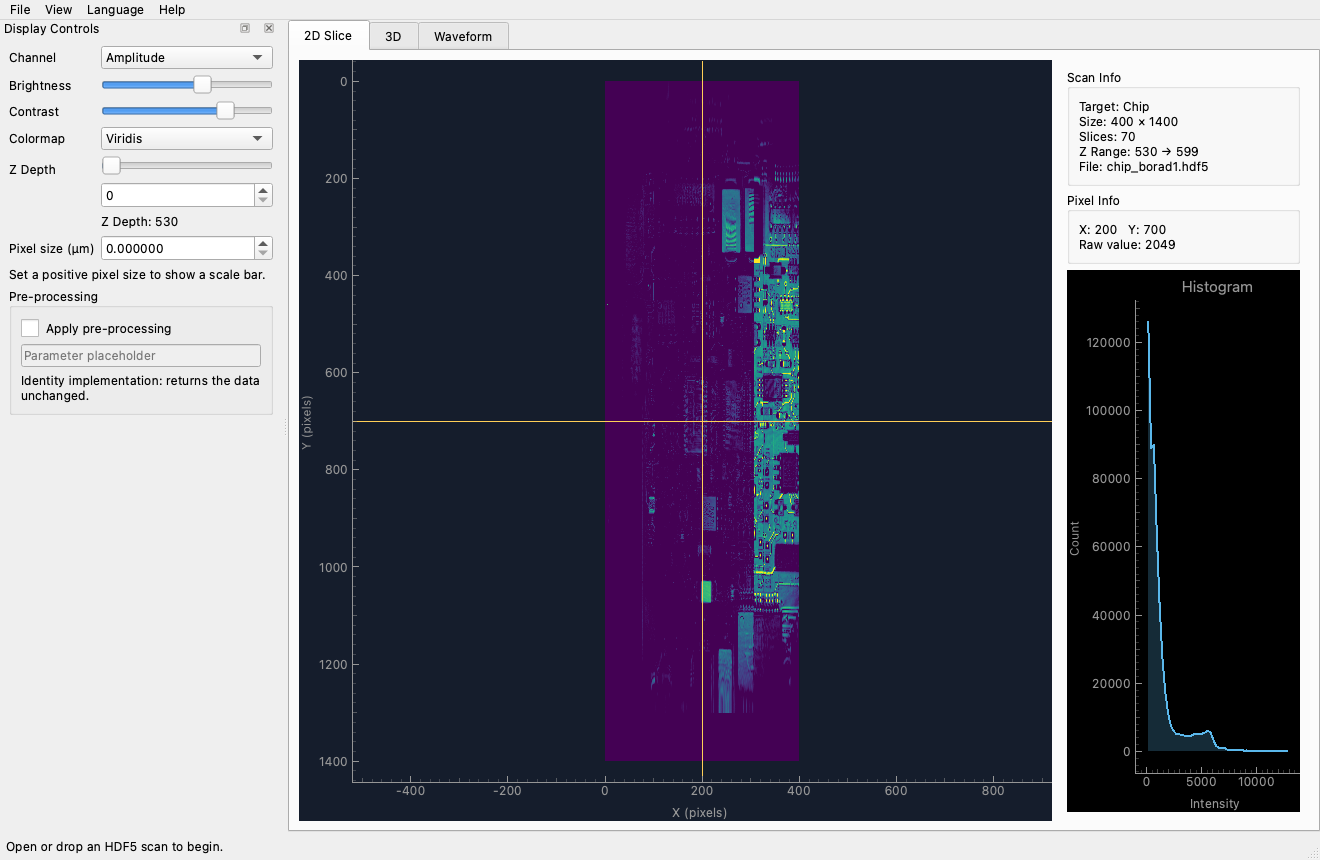
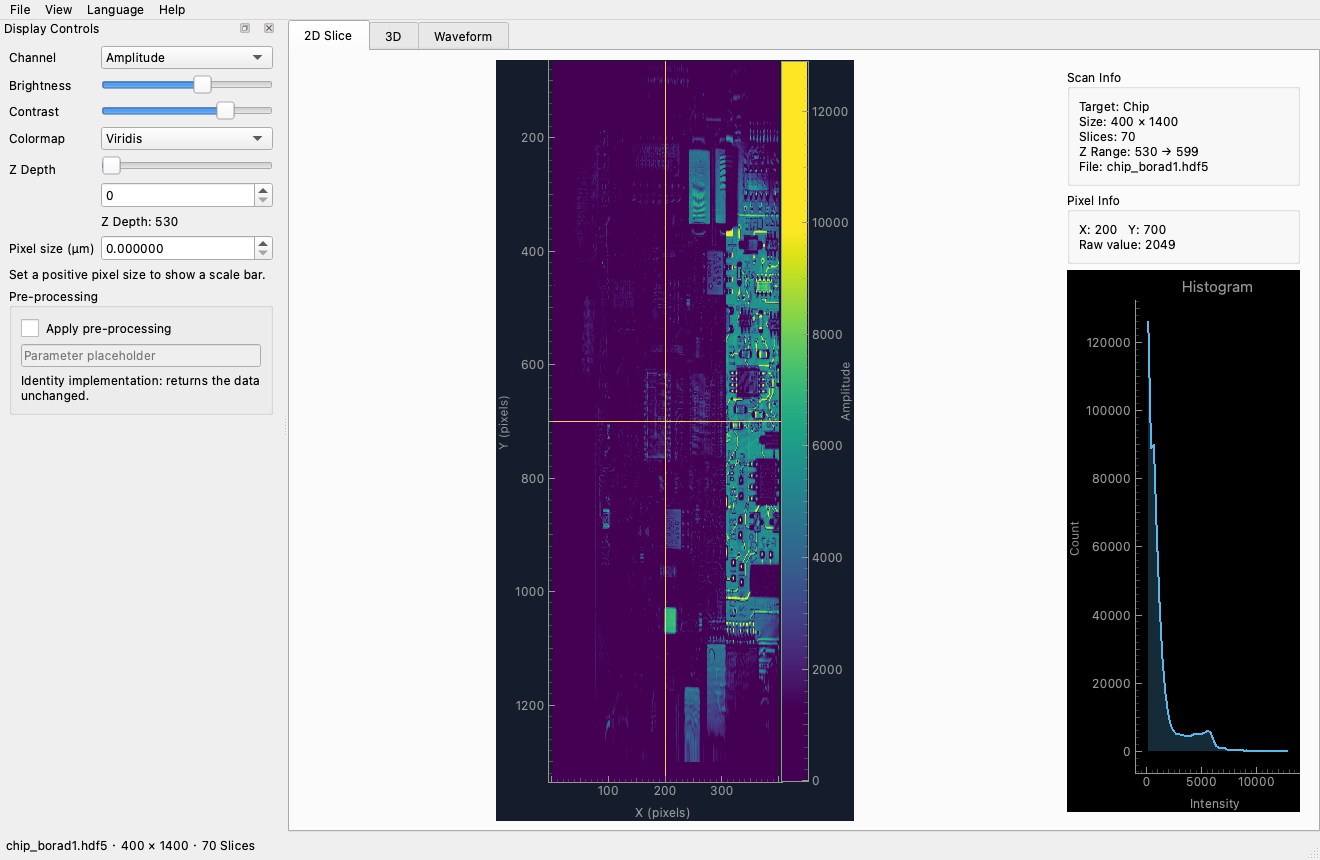
Improve 2D raw colorbar, bounded navigation, fit action and load status

diff --git a/part4_ui/app.py b/part4_ui/app.py
@@ -15,6 +15,33 @@ from .volume_panel import VolumePanel
 COLORMAPS = ['Viridis', 'Plasma', 'Inferno', 'Magma', 'Turbo', 'Hot', 'Cool']
 
 
+class ImagePlotHost(QtWidgets.QWidget):
+    """Size the plot to the sensor aspect ratio instead of stretching its bounds."""
+    def __init__(self, plot):
+        super().__init__()
+        self.plot = plot
+        plot.setParent(self)
+        self.shape = (400, 400)
+        self.setMinimumSize(240, 240)
+
+    def set_data_shape(self, width, height):
+        self.shape = (width, height)
+        self.resize_plot()
+
+    def resizeEvent(self, event):
+        super().resizeEvent(event)
+        self.resize_plot()
+
+    def resize_plot(self):
+        width, height = self.shape
+        available_width, available_height = self.width(), self.height()
+        scale = max(.01, min((available_width-160)/width, (available_height-65)/height))
+        plot_width = min(available_width, int(width*scale+160))
+        plot_height = min(available_height, int(height*scale+65))
+        self.plot.setGeometry((available_width-plot_width)//2, (available_height-plot_height)//2,
+                              plot_width, plot_height)
+
+
 class WorkerSignals(QtCore.QObject):
     result = QtCore.Signal(object)
     error = QtCore.Signal(object)
@@ -131,7 +158,7 @@ class MainWindow(QtWidgets.QMainWindow):
         self.slice_tab = QtWidgets.QWidget()
         slice_layout = QtWidgets.QHBoxLayout(self.slice_tab)
         self.image_plot = pg.PlotWidget(background='#151d2c')
-        self.image_plot.setMinimumSize(450, 450)
+        self.image_plot.setMinimumSize(160, 160)
         self.view = self.image_plot.getViewBox()
         self.view.setAspectLocked(True)
         self.view.invertY(True)
@@ -145,7 +172,10 @@ class MainWindow(QtWidgets.QMainWindow):
         self.cross_y.hide()
         self.image_plot.scene().sigMouseMoved.connect(self.hover_pixel)
         self.image_plot.scene().sigMouseClicked.connect(self.click_pixel)
-        slice_layout.addWidget(self.image_plot, 3)
+        self.colorbar = pg.ColorBarItem(values=(0,1), interactive=False, colorMapMenu=False)
+        self.image_plot.getPlotItem().layout.addItem(self.colorbar, 2, 5)
+        self.plot_host = ImagePlotHost(self.image_plot)
+        slice_layout.addWidget(self.plot_host, 3)
         info_widget = QtWidgets.QWidget()
         info_layout = QtWidgets.QVBoxLayout(info_widget)
         self.scan_group = QtWidgets.QGroupBox()
@@ -204,6 +234,8 @@ class MainWindow(QtWidgets.QMainWindow):
         self.file_menu.addAction(self.tr_text('quit'), self.close).setShortcut(QtGui.QKeySequence.StandardKey.Quit)
         view_menu = self.menuBar().addMenu(self.tr_text('view'))
         view_menu.addAction(self.dock.toggleViewAction())
+        self.fit_action = view_menu.addAction(self.tr_text('fit'), self.fit_view)
+        self.fit_action.setShortcut(QtGui.QKeySequence('Meta+0'))
         language_menu = self.menuBar().addMenu(self.tr_text('language'))
         language_menu.addAction('English', lambda: self.set_language('EN'))
         language_menu.addAction('中文', lambda: self.set_language('CN'))
@@ -242,6 +274,7 @@ class MainWindow(QtWidgets.QMainWindow):
         self.phase_plot.setLabel('left', self.tr_text('phase_rad'))
         self._build_menus()
         self.update_info()
+        self.update_colorbar()
         if self.jobs:
             self.busy_label.setText(self.tr_text('busy'))
 
@@ -300,6 +333,11 @@ class MainWindow(QtWidgets.QMainWindow):
                 self.selected_pixel = (self.data.width // 2, self.data.height // 2)
                 self.raw_slice = self.adjusted = None
                 self.fit_next_slice = True
+                self.plot_host.set_data_shape(self.data.width, self.data.height)
+                self.view.setLimits(xMin=-self.data.width*.02, xMax=self.data.width*1.02,
+                                    yMin=-self.data.height*.02, yMax=self.data.height*1.02,
+                                    minXRange=min(2,self.data.width), minYRange=min(2,self.data.height),
+                                    maxXRange=self.data.width*1.04, maxYRange=self.data.height*1.04)
                 self.slice_token += 1
                 with QtCore.QSignalBlocker(self.z_slider), QtCore.QSignalBlocker(self.z_spin):
                     self.z_slider.setRange(0, self.data.n_slices - 1)
@@ -312,6 +350,7 @@ class MainWindow(QtWidgets.QMainWindow):
                 self.export_action.setEnabled(True)
                 self.volume_panel.set_data_available(self.data.n_slices > 1)
                 self.update_info()
+                self.statusBar().showMessage(self.loaded_status())
                 self.request_slice()
             elif kind == 'slice' and token == self.slice_token:
                 self.raw_slice, self.adjusted, counts, edges = value
@@ -319,10 +358,11 @@ class MainWindow(QtWidgets.QMainWindow):
                 self.image.setLookupTable(cmap.getLookupTable(0., 1., 256))
                 self.image.setImage(self.adjusted, levels=(0, 1), autoLevels=False)
                 if self.fit_next_slice:
-                    self.view.setRange(QtCore.QRectF(0, 0, self.data.width, self.data.height), padding=.03)
+                    self.fit_view()
                     self.fit_next_slice = False
                 self.histogram.setLabel('bottom', self.tr_text('phase_rad' if self.channel.currentIndex() else 'intensity'))
                 self.histogram_curve.setData((edges[:-1] + edges[1:]) / 2, counts)
+                self.update_colorbar()
                 self.update_scale()
                 self.select_pixel(*self.selected_pixel, switch_tab=False)
                 self.update_info()
@@ -355,6 +395,8 @@ class MainWindow(QtWidgets.QMainWindow):
             self.progress.hide()
             self.busy_label.clear()
             self.workers.clear()
+            if self.data is not None:
+                self.statusBar().showMessage(self.loaded_status())
 
     def _z_changed(self, index):
         with QtCore.QSignalBlocker(self.z_spin):
@@ -394,6 +436,25 @@ class MainWindow(QtWidgets.QMainWindow):
             reconstructed = backend.reconstruct(data, {}) if apply else data
             return prepare_3d(reconstructed, mode, percentile, colormap, brightness, contrast)
         self._submit('volume', token, compute)
+
+    def fit_view(self):
+        if self.data is not None:
+            self.view.setRange(QtCore.QRectF(0, 0, self.data.width, self.data.height), padding=.01)
+
+    def update_colorbar(self):
+        if self.raw_slice is None:
+            return
+        cmap = pg.colormap.get(self.colormap.currentText().lower(), source='matplotlib')
+        positions = np.linspace(0, 1, 256)
+        colors = cmap.map(adjust_slice(positions, self.brightness.value(), self.contrast.value()), mode='byte')
+        self.colorbar.setColorMap(pg.ColorMap(positions, colors))
+        minimum, maximum = float(self.raw_slice.min()), float(self.raw_slice.max())
+        self.colorbar.setLevels((minimum, maximum if maximum > minimum else minimum+1))
+        self.colorbar.axis.setLabel(self.tr_text('phase_rad' if self.channel.currentIndex() else 'amplitude'))
+
+    def loaded_status(self):
+        data = self.data
+        return f"{Path(data.file_path).name} · {data.width} × {data.height} · {data.n_slices} {self.tr_text('slices')}"
 
     def update_info(self):
         if self.data is None:

diff --git a/tests/test_gui.py b/tests/test_gui.py
@@ -269,3 +269,23 @@ def test_3d_failure_is_readable(qtbot, window, tmp_path):
     assert 'Could not render 3D' in window.errors[0]
     assert 'distinct' in window.errors[0]
     assert window.volume_panel.result is None
+
+
+
+def test_colorbar_bounds_fit_and_loaded_status(qtbot, window):
+    load_mushroom(qtbot, window)
+    assert window.colorbar.levels() == tuple(map(float, (window.raw_slice.min(), window.raw_slice.max())))
+    assert window.colorbar.axis.labelText == 'Amplitude'
+    assert 'mushroom.hdf5' in window.statusBar().currentMessage()
+    assert '1300 × 400' in window.statusBar().currentMessage()
+    window.channel.setCurrentIndex(1)
+    wait_ready(qtbot, window)
+    assert window.colorbar.axis.labelText == 'Phase (rad)'
+    window.view.setRange(QtCore.QRectF(10,20,100,100), padding=0)
+    window.fit_action.trigger()
+    x_range, y_range = window.view.viewRange()
+    assert x_range[0] >= -26.01 and x_range[1] <= 1326.01
+    assert y_range[0] >= -8.01 and y_range[1] <= 408.01
+    window.colormap.setCurrentText('Plasma')
+    wait_ready(qtbot, window)
+    assert window.colorbar.levels() == tuple(map(float, (window.raw_slice.min(), window.raw_slice.max())))

diff --git a/part4_ui/i18n.py b/part4_ui/i18n.py
@@ -1,5 +1,6 @@
 """English and Chinese desktop UI text."""
 STRINGS = {
+    'fit': ('Fit to window', '适应窗口'),
     'volume_mode': ('Volume', '体渲染'),
     'isosurface_mode': ('Isosurface', '等值面'),
     'iso_percentile': ('Isomin percentile', '等值面下限百分位'),
